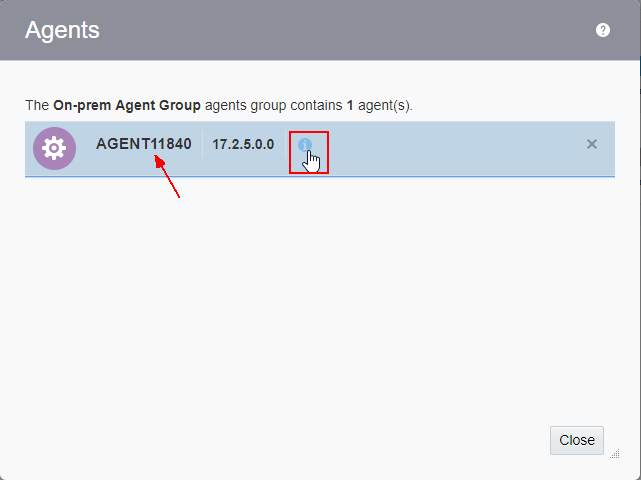
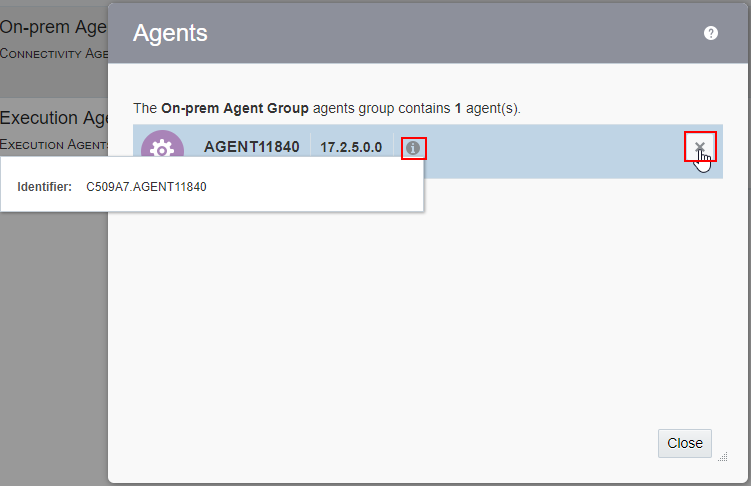
Edits in Lab 100 for typos, etc. after proofing

Changed region(s): [[0.0, 0.0, 1.0, 1.0], [0.9984, 0.2812, 1.0, 0.4375]]

diff --git a/workshops/ttc-ics-dev-workshop/ics100.md b/workshops/ttc-ics-dev-workshop/ics100.md
@@ -139,7 +139,7 @@ Let’s start by logging into the Oracle Cloud account and explore the Services 
 
 ![](images/100/image012b.png)
 
-**1.2.2.9** Select the Start icon and the drawing gets reset to a zoomed in view with the orchestration trigger at the very top.  This is a nice feature if you don't know where you are in a large orchestration.
+**1.2.2.9** Select the `Start` icon and the drawing gets reset to a zoomed in view with the orchestration trigger at the very top.  This is a nice feature if you don't know where you are in a large orchestration.
 
    ![](images/100/image012c.png)
 
@@ -155,7 +155,7 @@ Let’s start by logging into the Oracle Cloud account and explore the Services 
 
 ![](images/100/image012e.png)
 
-**1.2.2.14** If you click on the Trigger, a pop-up will appear with a view icon.  Select the little eye on the view icon so we can walk through the wizard that was used to setup the SOAP trigger.
+**1.2.2.14** If you click on the Trigger, a pop-up will appear with a view icon in the shape of an eye.  Select the little eye so we can walk through the wizard that was used to setup the SOAP trigger.
 
 ![](images/100/image012f.png)
 
@@ -241,29 +241,27 @@ Let’s start by logging into the Oracle Cloud account and explore the Services 
 
 ![](images/100/image110.png)
 
-**1.2.3.3** Select the `Hamburger` menu icon again to dismiss the left-hand navigation and get some screen real-estate back.
- 
-**1.2.3.4** Make note of the agent that has been created to communicate with the Database instance called *On-prem Agent Group*.
+**1.2.3.3** Make note of the agent that has been created to communicate with the Database instance called *On-prem Agent Group*.
 
 ![](images/100/image014.png)  
 
-**1.2.3.5** Selecting the `1` shows the on-premise connectivity agent that is registered with the *EBS Agent* agent group.  Select the little `i` (information) icon next to the Agent number can be select to see details.
+**1.2.3.4** Selecting the `1` shows the on-premise connectivity agent that is registered with the *On-prem Agent Group* agent group.  Select the little `i` (information) icon next to the Agent number can be select to see details.
 
-**1.2.3.6** The agent identifier along with the ICS version is shown in the details.  You can also remove the agent by selecting the `X` to the right of the dialog. Click on the `X` so you can see the connections that are currently associated with this agent.
+**1.2.3.5** The agent identifier along with the ICS version is shown in the details.  You can also remove the agent by selecting the `X` to the right of the dialog. Click on the `X` so you can see the connections that are currently associated with this agent.
 
 ![](images/100/image014a.png)
 
-**1.2.3.7** You can see that both the *On-Premises Oracle DB 12c* and *User03 Oracle DB 12c* ICS Connectors are both using this agent so you can’t just remove it without first removing the references to it in those connections.
+**1.2.3.6** You can see that both the *On-Premises Oracle DB 12c* and *User03 Oracle DB 12c* ICS Connectors are both using this agent so you can’t just remove it without first removing the references to it in those connections.
 
 - Select the `Close` button _twice_ to dismiss the `“Agent Is In Use` and `Agent` dialogs.
 
 ![](images/100/image014b.png)
 
-**1.2.3.8** The Connectivity Agent is available from the `Download` pull-down on the Agent page shown below:
+**1.2.3.7** The Connectivity Agent is available from the `Download` pull-down on the Agent page shown below:
 
 ![](images/100/image014d.png)
 
-**1.2.3.9** The `Execution Agent` that you see in the download dropdown is a version of ICS that can run on-premise behind the customer firewall.  You can use ICS both in the cloud and on-premise for creating integrations.
+**1.2.3.8** The `Execution Agent` that you see in the download dropdown is a version of ICS that can run on-premise behind the customer firewall.  You can use ICS both in the cloud and on-premise for creating integrations.
 
 ## 1.3: Explore the ICS Monitoring User Interface
 
@@ -336,9 +334,9 @@ Let’s start by logging into the Oracle Cloud account and explore the Services 
 
 ---
 
-**1.3.4.1** Back in the ICS Monitoring console, select “Integrations” from the left-hand navigation.
+**1.3.4.1** Back in the ICS Monitoring console, select `Integrations` from the left-hand navigation.
 
-**1.3.4.2** Note that all the statistics of the “Lab 400 Create EBS Order Solution” are shown.
+**1.3.4.2** Note that all the statistics of the _Lab 400 Create EBS Order Solution_ are shown.
 
 ![](images/100/image023.png)
 
@@ -374,7 +372,7 @@ Let’s start by logging into the Oracle Cloud account and explore the Services 
 
 ![](images/100/image033.png)
 
-**1.3.6.6** Select the `Exit Instance` button to go back to the ICS monitoring page.
+**1.3.6.6** Select the `Close` button to go back to the ICS monitoring page.
 
 ![](images/100/image034.png)
 
